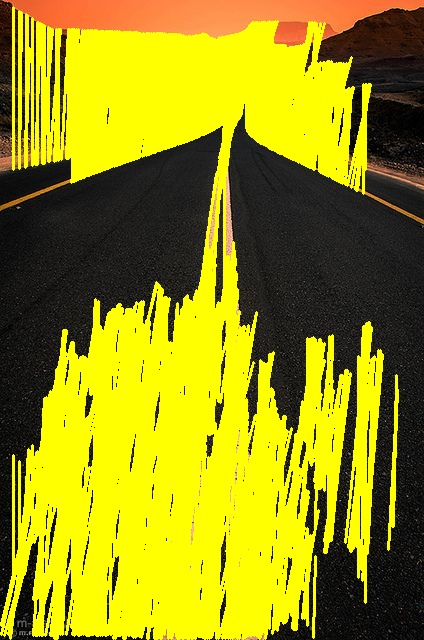
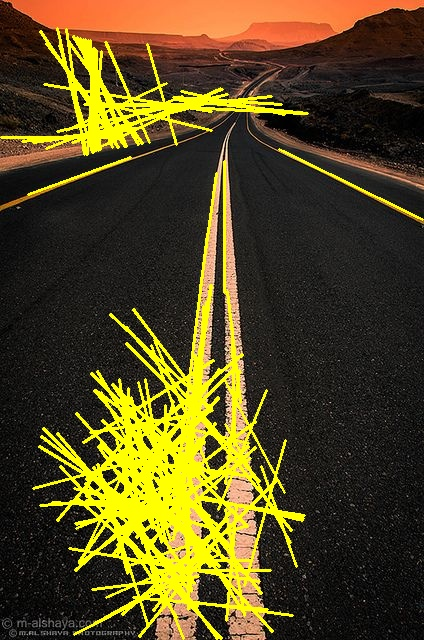
Parametrised Vision node to test different combination of values

diff --git a/lane_keeping_ws/src/classic_vision/src/VisionNode.cpp b/lane_keeping_ws/src/classic_vision/src/VisionNode.cpp
@@ -21,7 +21,11 @@ VisionNode::VisionNode() : Node("vision_node")
         [this](sensor_msgs::msg::Image::SharedPtr img)
         { VisionNode::processImage(img); });
 
-    // cv::namedWindow("processed");
+    // parameter
+    this->declare_parameter("max_line_length", 100);
+    this->declare_parameter("max_line_gap", 20);
+    this->declare_parameter("max_detected_lines", 1000);
+
     RCLCPP_INFO(this->get_logger(), "%s initialized", this->get_name());
 }
 
@@ -46,109 +50,112 @@ void VisionNode::processImage(sensor_msgs::msg::Image::SharedPtr img)
         cuda::GpuMat gpu_img;
         gpu_img.upload(converted->image);
 
-        // Convert to grayscale
-        cuda::GpuMat gpu_gray;
-        cuda::cvtColor(gpu_img, gpu_gray, COLOR_BGR2GRAY);
-
-        // Apply Gaussian blur
-        cuda::GpuMat gpu_blurred;
-        Ptr<cuda::Filter> gaussian_filter =
-            cuda::createGaussianFilter(CV_8UC1, CV_8UC1, Size(3, 3), 1.0);
-        gaussian_filter->apply(gpu_gray, gpu_blurred);
-
-        // Apply Canny edge detection
-        cuda::GpuMat gpu_edges;
-        Ptr<cuda::CannyEdgeDetector> canny =
-            cuda::createCannyEdgeDetector(30, 90);
-        canny->detect(gpu_blurred, gpu_edges);
-
-        // Save edge detection result
-        Mat cpu_edges;
-        gpu_edges.download(cpu_edges);
-        imwrite("processed/edges.jpg", cpu_edges);
-        RCLCPP_INFO(this->get_logger(),
-                    "Edge image size: %dx%d, Non-zero pixels: %d",
-                    cpu_edges.cols, cpu_edges.rows, countNonZero(cpu_edges));
-
-        // Detect lines using Hough Transform
-        cuda::GpuMat gpu_lines;
-        auto line_detector =
-            cuda::createHoughSegmentDetector(1.0f,           // rho
-                                             CV_PI / 180.0f, // theta
-                                             80,  // minimum line length
-                                             20,  // maximum line gap
-                                             1000 // maximum number of lines
-            );
-
-        line_detector->detect(gpu_edges, gpu_lines);
-
-        // Download lines from GPU to CPU
-        Mat lines_cpu;
-        if (gpu_lines.empty())
-        {
-            RCLCPP_WARN(this->get_logger(), "No lines detected on GPU");
-            return;
-        }
-
-        // Create the host matrix with CV_32SC4 type
-        lines_cpu.create(1, gpu_lines.cols, CV_32SC4);
-        gpu_lines.download(lines_cpu);
-
-        RCLCPP_INFO(this->get_logger(), "Lines matrix: type=%d, size=%dx%d",
-                    lines_cpu.type(), lines_cpu.rows, lines_cpu.cols);
-
-        // Convert to vector of Vec4i
-        std::vector<Vec4i> lines;
-        if (!lines_cpu.empty())
-        {
-            lines.reserve(lines_cpu.cols);
-            int* data = lines_cpu.ptr<int>(); // Use int* instead of float*
-
-            for (int i = 0; i < lines_cpu.cols; ++i)
-            {
-                // Each line is stored as 4 consecutive int values
-                int x1 = data[i * 4];
-                int y1 = data[i * 4 + 1];
-                int x2 = data[i * 4 + 2];
-                int y2 = data[i * 4 + 3];
-
-                // Print first few lines for debugging
-                if (i < 5)
-                {
-                    RCLCPP_INFO(this->get_logger(),
-                                "Line %d: (%d, %d) -> (%d, %d)", i, x1, y1, x2,
-                                y2);
-                }
-
-                // Only add valid lines
-                if (x1 >= 0 && x1 < converted->image.cols && y1 >= 0 &&
-                    y1 < converted->image.rows && x2 >= 0 &&
-                    x2 < converted->image.cols && y2 >= 0 &&
-                    y2 < converted->image.rows)
-                {
-                    lines.push_back(
-                        Vec4i(x1, y1, x2, y2)); // No conversion needed
-                }
-            }
-        }
-
-        // Draw lines
-        Mat result = converted->image.clone();
-        for (const auto& line : lines)
-        {
-            cv::line(result, Point(line[0], line[1]), Point(line[2], line[3]),
-                     Scalar(0, 255, 255), 2);
-        }
-
-        // Save and display results
-        imwrite("processed/result.jpg", result);
-
-        RCLCPP_INFO(this->get_logger(), "Detected %zu valid lines",
-                    lines.size());
+        preProcessImage(gpu_img);
+        detectLines(gpu_img, converted);
     }
     catch (const cv::Exception& e)
     {
         RCLCPP_ERROR(this->get_logger(), "Error while processing the image: %s",
                      e.what());
     }
+}
+
+void VisionNode::preProcessImage(cuda::GpuMat& gpu_img)
+{
+
+    // Convert to grayscale
+    cuda::GpuMat gpu_gray;
+    cuda::cvtColor(gpu_img, gpu_gray, COLOR_BGR2GRAY);
+
+    // Apply Gaussian blur
+    cuda::GpuMat gpu_blurred;
+    Ptr<cuda::Filter> gaussian_filter =
+        cuda::createGaussianFilter(CV_8UC1, CV_8UC1, Size(3, 3), 1.0);
+    gaussian_filter->apply(gpu_gray, gpu_blurred);
+
+    // Apply Canny edge detection
+    Ptr<cuda::CannyEdgeDetector> canny = cuda::createCannyEdgeDetector(30, 90);
+    canny->detect(gpu_blurred, gpu_img);
+
+    // Save edge detection result
+    Mat cpu_edges;
+    gpu_img.download(cpu_edges);
+    imwrite("processed/edges.jpg", cpu_edges);
+    RCLCPP_INFO(this->get_logger(),
+                "Edge image size: %dx%d, Non-zero pixels: %d", cpu_edges.cols,
+                cpu_edges.rows, countNonZero(cpu_edges));
+}
+
+void VisionNode::detectLines(cuda::GpuMat& gpu_img,
+                             cv_bridge::CvImageConstPtr& converted)
+{
+    auto max_line_length = this->get_parameter("max_line_length").as_int();
+    auto max_detected_lines =
+        this->get_parameter("max_detected_lines").as_int();
+    auto max_line_gap = this->get_parameter("max_line_gap").as_int();
+
+    cuda::GpuMat gpu_lines;
+    auto line_detector =
+        cuda::createHoughSegmentDetector(1.0f, CV_PI / 180.0f, max_line_length,
+                                         max_line_gap, max_detected_lines);
+
+    line_detector->detect(gpu_img, gpu_lines);
+
+    // Download lines from GPU to CPU
+    Mat lines_cpu;
+    if (gpu_lines.empty())
+    {
+        RCLCPP_WARN(this->get_logger(), "No lines detected on GPU");
+        return;
+    }
+
+    // Create the host matrix with CV_32SC4 type
+    lines_cpu.create(1, gpu_lines.cols, CV_32SC4);
+    gpu_lines.download(lines_cpu);
+
+    // Convert to vector of Vec4i
+    std::vector<Vec4i> lines;
+    if (!lines_cpu.empty())
+    {
+        lines.reserve(lines_cpu.cols);
+        int* data = lines_cpu.ptr<int>(); // Use int* instead of float*
+
+        for (int i = 0; i < lines_cpu.cols; ++i)
+        {
+            // Each line is stored as 4 consecutive int values
+            int x1 = data[i * 4];
+            int y1 = data[i * 4 + 1];
+            int x2 = data[i * 4 + 2];
+            int y2 = data[i * 4 + 3];
+
+            // Print first few lines for debugging
+            if (i < 5)
+            {
+                RCLCPP_INFO(this->get_logger(), "Line %d: (%d, %d) -> (%d, %d)",
+                            i, x1, y1, x2, y2);
+            }
+
+            // Only add valid lines
+            if (x1 >= 0 && x1 < converted->image.cols && y1 >= 0 &&
+                y1 < converted->image.rows && x2 >= 0 &&
+                x2 < converted->image.cols && y2 >= 0 &&
+                y2 < converted->image.rows)
+            {
+                lines.push_back(Vec4i(x1, y1, x2, y2)); // No conversion needed
+            }
+        }
+    }
+
+    // Draw lines
+    Mat result = converted->image.clone();
+    for (const auto& line : lines)
+    {
+        cv::line(result, Point(line[0], line[1]), Point(line[2], line[3]),
+                 Scalar(0, 255, 255), 2);
+    }
+
+    // Save and display results
+    imwrite("processed/result.jpg", result);
+
+    RCLCPP_INFO(this->get_logger(), "Detected %zu valid lines", lines.size());
 }

diff --git a/lane_keeping_ws/src/classic_vision/includes/VisionNode.hpp b/lane_keeping_ws/src/classic_vision/includes/VisionNode.hpp
@@ -16,17 +16,11 @@ class VisionNode : public rclcpp::Node
         VisionNode();
         ~VisionNode() = default;
 
-        // process:
-        // Grayscale
-        // blur
-        // edges
-        // ----> produces edges
-
     private:
         rclcpp::Subscription<sensor_msgs::msg::Image>::SharedPtr raw_img_sub_;
         void processImage(sensor_msgs::msg::Image::SharedPtr img);
 
-        void preProcessImage(cv::cuda::GpuMat);
-        void detectLines(cv::cuda::GpuMat gpu_img,
-                         cv_bridge::CvImageConstPtr original_img);
+        void preProcessImage(cv::cuda::GpuMat& gpu_img);
+        void detectLines(cv::cuda::GpuMat& gpu_img,
+                         cv_bridge::CvImageConstPtr& original_img);
 };
